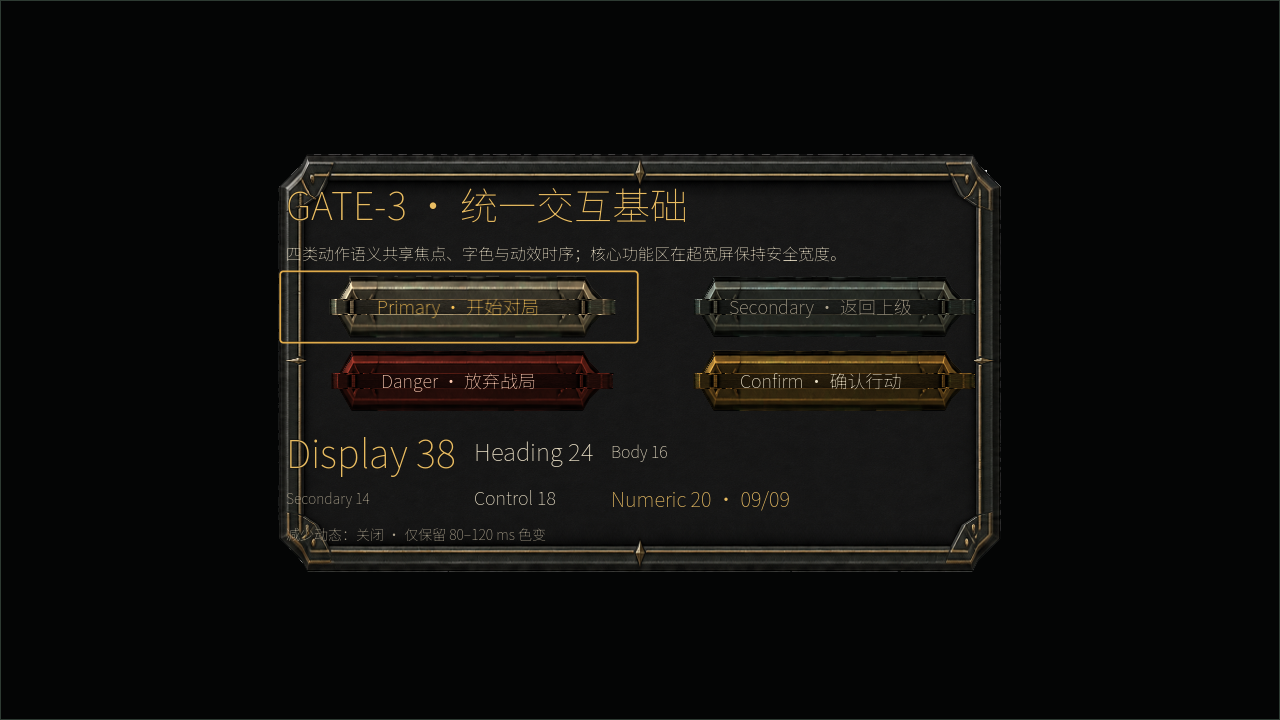
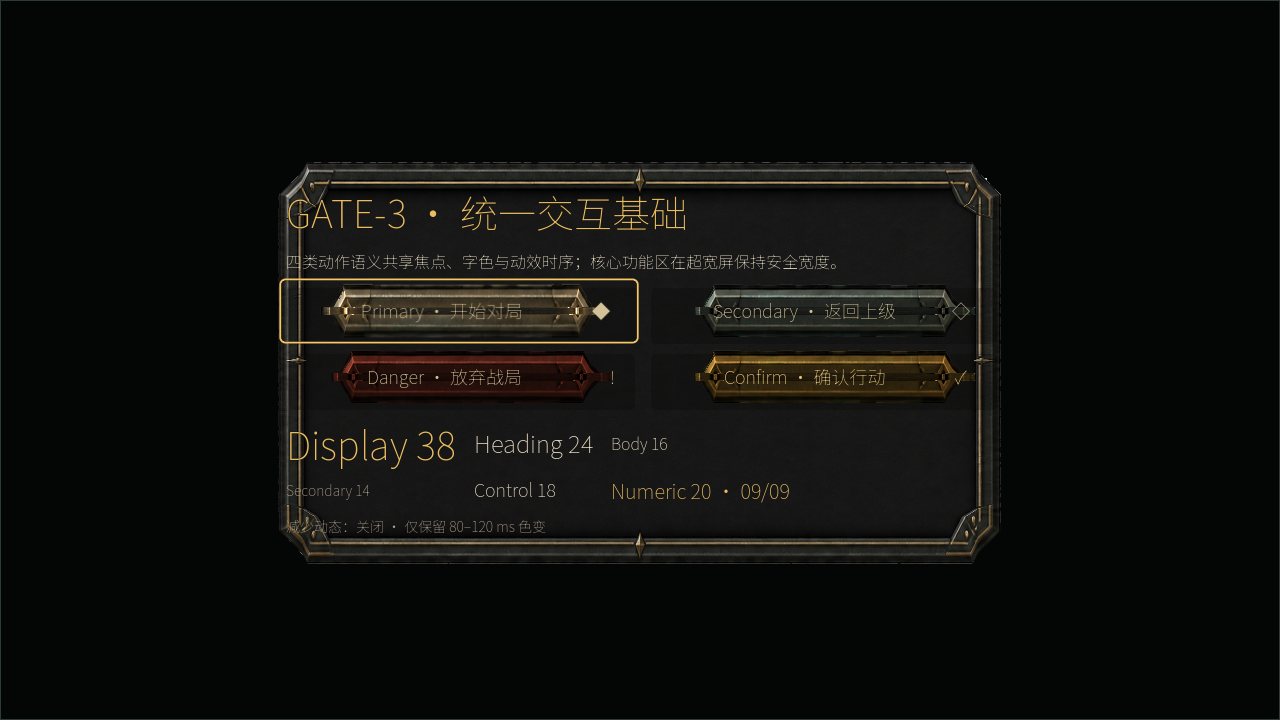
feat: 补齐全量UI重构验证与交付证据

diff --git a/game-pipeline/loops/evidence/UI-WORKFLOW-REFACTOR-IMPLEMENTATION-HANDOFF-v1.md b/game-pipeline/loops/evidence/UI-WORKFLOW-REFACTOR-IMPLEMENTATION-HANDOFF-v1.md
@@ -1,0 +1,84 @@
+# 全量 UI Workflow 重构生产者交接 v1
+
+状态：`producer_integrated / awaiting-independent-qa / not-gate3-frozen`
+
+日期：2026-09-02  
+分支：`codex/ui-workflow-refactor`  
+Worktree：`D:\Veilfront Xiangqi Siege-ui-refactor`
+
+## 授权与边界
+
+- 本轮遵循 `game-pipeline/approvals/production-scope-exception-full-ui-bb9bb74bf65b.yaml` 与 `UI-FULL-ASSET-OWNER-EXCEPTION-decision-package-v1.yaml` 的已批准九类页面范围。
+- 实现没有修改 `scripts/game/domain`、规则随机、`PlayerView` / `VisibleEvent`、回放、教学 Intent/Event、联网协议、音频或第二套 Theme。
+- 本记录是生产者集成证据，不是独立 QA、审美批准或 GATE-3 冻结结论；没有修改 Registry/Gate 状态。
+
+## 重构结论
+
+1. 正式交互统一由原生 `Button` 根节点拥有输入、焦点、信号和无障碍语义。
+2. 阴影、九宫格表面、保持比例的复杂插画、图标、文字、焦点框和语义标记均为共享 `.tscn` 中的预置子节点，且全部忽略输入。
+3. 页面遗留 Theme 覆盖会在运行时被透明语义壳隔离，正式美术只由独立视觉层绘制。
+4. Tween 只改变视觉子树的 offset transform、调制色和透明度，不改变 Container 布局矩形；旧 Tween 在新状态前终止。
+5. 状态优先级统一为 `disabled > pressed > focus+hover > focus > hover > normal`；鼠标悬停不抢夺键盘/手柄焦点。
+6. 支持 `Primary / Secondary / Danger / Confirm` 四类语义、独立焦点框、禁用态和 reduced-motion；基础按钮至少 48px，高价值预置至少 56px，页面紧凑控件不得低于 44px。
+7. 主菜单、设置、关卡选择、局域网大厅、对局 HUD、教学覆盖层、暂停菜单、加载/错误、终局结算与通用弹窗均已迁移；业务 NodePath 与按钮信号保持兼容。
+
+## 生产提交
+
+- `163636c` — `feat: 重构语义按钮视觉分层与动效基线`
+- `598bdcf` — `feat: 统一重构前端页面语义按钮与美术分层`
+- `aec78bc` — `feat: 统一重构对局与系统界面语义交互`
+- `c83102d` — `feat: 统一重构教学界面语义交互`
+
+上述提交均已推送至 `origin/codex/ui-workflow-refactor`；候选尚未合入 `main`。
+
+## 自动验证
+
+- `UI_WORKFLOW_COMPONENT_CONTRACT_PASS variants=4 visual_layers=10 semantic_root=Button`
+- `FULL_UI_WORKFLOW_MIGRATION_PASS scenes=60 formal_scenes=20 semantic_buttons=121 direct_texture_buttons=0`
+- `GATE3_UI_FOUNDATION_CONTRACT_PASS variants=4 roles=6 viewports=4 focus_loop=true reduced_motion=colour_only`
+- `FRONTEND_SCENE_SMOKE_PASS catalog=21 tutorial=18 challenge=3 routes=2`
+- `FRONTEND_INTRO_CONTRACT_PASS sequence_gate=ok menu_input_gate=ok`
+- `SETTINGS_SCREEN_CONTRACT_PASS tabs=3 controls=12 ... resolutions=3 route=connected`
+- `LEVEL_SELECT_UI_CONTRACT_PASS source=approved_master_v3 modules=18 routes=2 resolutions=5`
+- `FORMAL_LAN_LOBBY_CONTRACT_PASS states=5 private_seed=absent`
+- `MATCH_HUD_V2_CONTRACT_PASS`、`MATCH_HUD_V2_TERRACOTTA_ART_PASS`、`ONLINE_MATCH_HUD_V3_CONTRACT_PASS`
+- `MATCH_HUD_V3_LAYOUT_LAB_PASS`、`LEVEL_GAMEPLAY_HUD_LAB_PASS`
+- `TERMINAL_DIALOG_CONTRACT_PASS contexts=3 responsive=960x540,1280x720,1920x1080`
+- `SYSTEM_DIALOG_ART_CONTRACT_PASS dialogs=11 assets=3 native=0`
+- `LOADING_TRANSITION_MOTION_LAB_CONTRACT_PASS progress=67 failure_feedback=true reduced_motion=true`
+- 教学暂停、图鉴、情境提醒、覆盖层动作、输入守卫、导航、完成/失败与三分辨率布局合同全部通过。
+- Godot `4.7.1.stable.official.a13da4feb` 编辑器无头导入/脚本注册退出码为 0。
+
+## 真实渲染证据
+
+使用 Intel Iris Xe / OpenGL Compatibility 在 1280×720 重新生成并人工检查：
+
+- `evidence/gate3/ui/gate3-ui-foundation-lab-1280x720.png`
+- `evidence/ui/title-menu-settings-shield-v1-1280x720.png`
+- `evidence/ui/settings-screen-functional-1280x720.png`
+- `evidence/ui/level-select-approved-master-v2-1280x720.png`
+- `evidence/ui/formal-lan-lobby-ui-workflow-v1-1280x720.png`
+- `evidence/ui/match-hud-v3-layout-lab-1280x720.png`
+- `evidence/ui/online-match-hud-v3-1280x720.png`
+- `evidence/ui/level-gameplay-hud-lab-1280x720.png`
+- `evidence/ui/formal-terminal-dialog-v2-1280x720.png`
+- `evidence/ui/loading-transition-motion-v1-loading-1280x720.png`
+- `evidence/ui/loading-transition-motion-v1-failure-1280x720.png`
+- `evidence/ui/tutorial-codex-v3-p00-1280x720.png`
+
+复查结果：复杂按钮插画保持比例，无烘焙底板拉伸；核心文字无裁切；376px 教学右栏与棋盘/行动区不重叠；焦点框与危险/确认语义可辨。
+
+## 代码审查
+
+- 严重问题：无。
+- 固定 UI 结构继续使用预置节点与场景继承，没有新增脚本动态拼装界面。
+- 节点引用均缓存于 `@onready`；没有在 `_process()` / `_physics_process()` 中查找节点或加载资源。
+- 视觉状态 Tween 可中断，并由节点生命周期托管；reduced-motion 下不产生几何变化。
+- 全局扫描确认正式 `scenes/game` 只在共享基类定义原生 `Button`，不存在直接 `TextureButton` 或清空 `motion_profile` 的页面实例。
+
+## 未完成与后续
+
+1. QA 需从冻结提交独立复现键鼠/手柄焦点、960×540、1280×720、1920×1080、2560×1080 与 21:9 背景延展。
+2. QA 需检查 Windows 成品的 DPI、字体回退、暂停态 Tween、长时间多次切换状态和输入可达性。
+3. `run_online_match_hud_v3_contract.gd` 与 `run_level_gameplay_hud_lab_contract.gd` 在退出时仍可能报告少量 ObjectDB/资源未释放警告；功能、布局和截图断言通过，但测试夹具清理应在冻结前复核。
+4. 仍需项目所有者对九类页面做最终视觉/体验验收；本分支在得到结论前不得合入 `main` 或标记 GATE-3 完成。

diff --git a/docs/godot-prompter/plans/2026-09-02-full-ui-workflow-refactor.md b/docs/godot-prompter/plans/2026-09-02-full-ui-workflow-refactor.md
@@ -1,0 +1,42 @@
+# 全量 UI Workflow 重构计划
+
+日期：2026-09-02  
+分支：`codex/ui-workflow-refactor`  
+工作区：`D:\Veilfront Xiangqi Siege-ui-refactor`
+
+## 目标
+
+在不修改规则、`PlayerView`、公开事件、回放、联网协议和页面业务语义的前提下，把当前九类正式 UI 迁移到统一的“原生语义控件 + 独立视觉层 + 预置节点 + 可中断 Tween + 显式焦点 + reduced-motion”实现基线。
+
+本次覆盖主菜单、关卡选择、局域网大厅、对局 HUD、教学、暂停/设置、加载失败、终局结算和通用系统弹窗。兵马俑二维美术方向与当前公开信息边界保持不变。
+
+## 新 Workflow 在本项目中的落地
+
+- `Button` 只拥有输入、焦点、信号、文本和无障碍语义。
+- 固定视觉结构全部预置在共享 `.tscn` 中，不由脚本动态拼装。
+- 表面、阴影、插画、图标、文字、焦点框和状态标记是独立子层。
+- 复杂插画使用保持比例的 `TextureRect`；九宫格只承载可安全拉伸的表面。
+- 动效只改变 `offset_transform_*`、调制色和视觉层透明度，不改变布局矩形。
+- 四种正式语义为 `Primary / Secondary / Danger / Confirm`；页面业务动作不因迁移而改变。
+- 960×540、1280×720、1920×1080 与 2560×1080 共用 16:9 核心安全画布策略。
+
+## 实施批次
+
+1. 重构 `UiMotionButton` 共享预置、脚本与四种语义变体，补充结构合同测试。
+2. 迁移主菜单、设置、关卡选择和局域网大厅的主要交互控件。
+3. 迁移对局 HUD、教学、暂停、加载失败、结算和通用弹窗的主要交互控件。
+4. 补齐全页面焦点闭环、无障碍名称、reduced-motion 和四档分辨率证据。
+
+## 验收
+
+- 共享按钮固定结构可在场景树中直接检查，根节点仍是原生 `Button`。
+- 页面脚本继续使用原 NodePath、信号和动作语义，代表性流程合同全部通过。
+- 所有正式主要动作都有非空语义角色、可见焦点和不低于 44 px 的交互高度。
+- 鼠标 hover 不抢夺键盘/手柄焦点；禁用、聚焦、按下和 hover 的优先级一致。
+- reduced-motion 下不发生位移、旋转、缩放、抖动或循环视觉运动。
+- 四档分辨率无核心裁切、遮挡和焦点不可达；21:9 只扩展背景和安全留白。
+- 自动检查通过后提交项目所有者体验验收；worktree 候选未获验收前不合入 `main`。
+
+## 回退
+
+每个批次独立提交。任一页面迁移造成布局、输入或视觉回归时，返回对应页面批次修复；共享组件合同失败时先返回第一批次，不在页面脚本中增加一次性补丁绕开共享约束。
